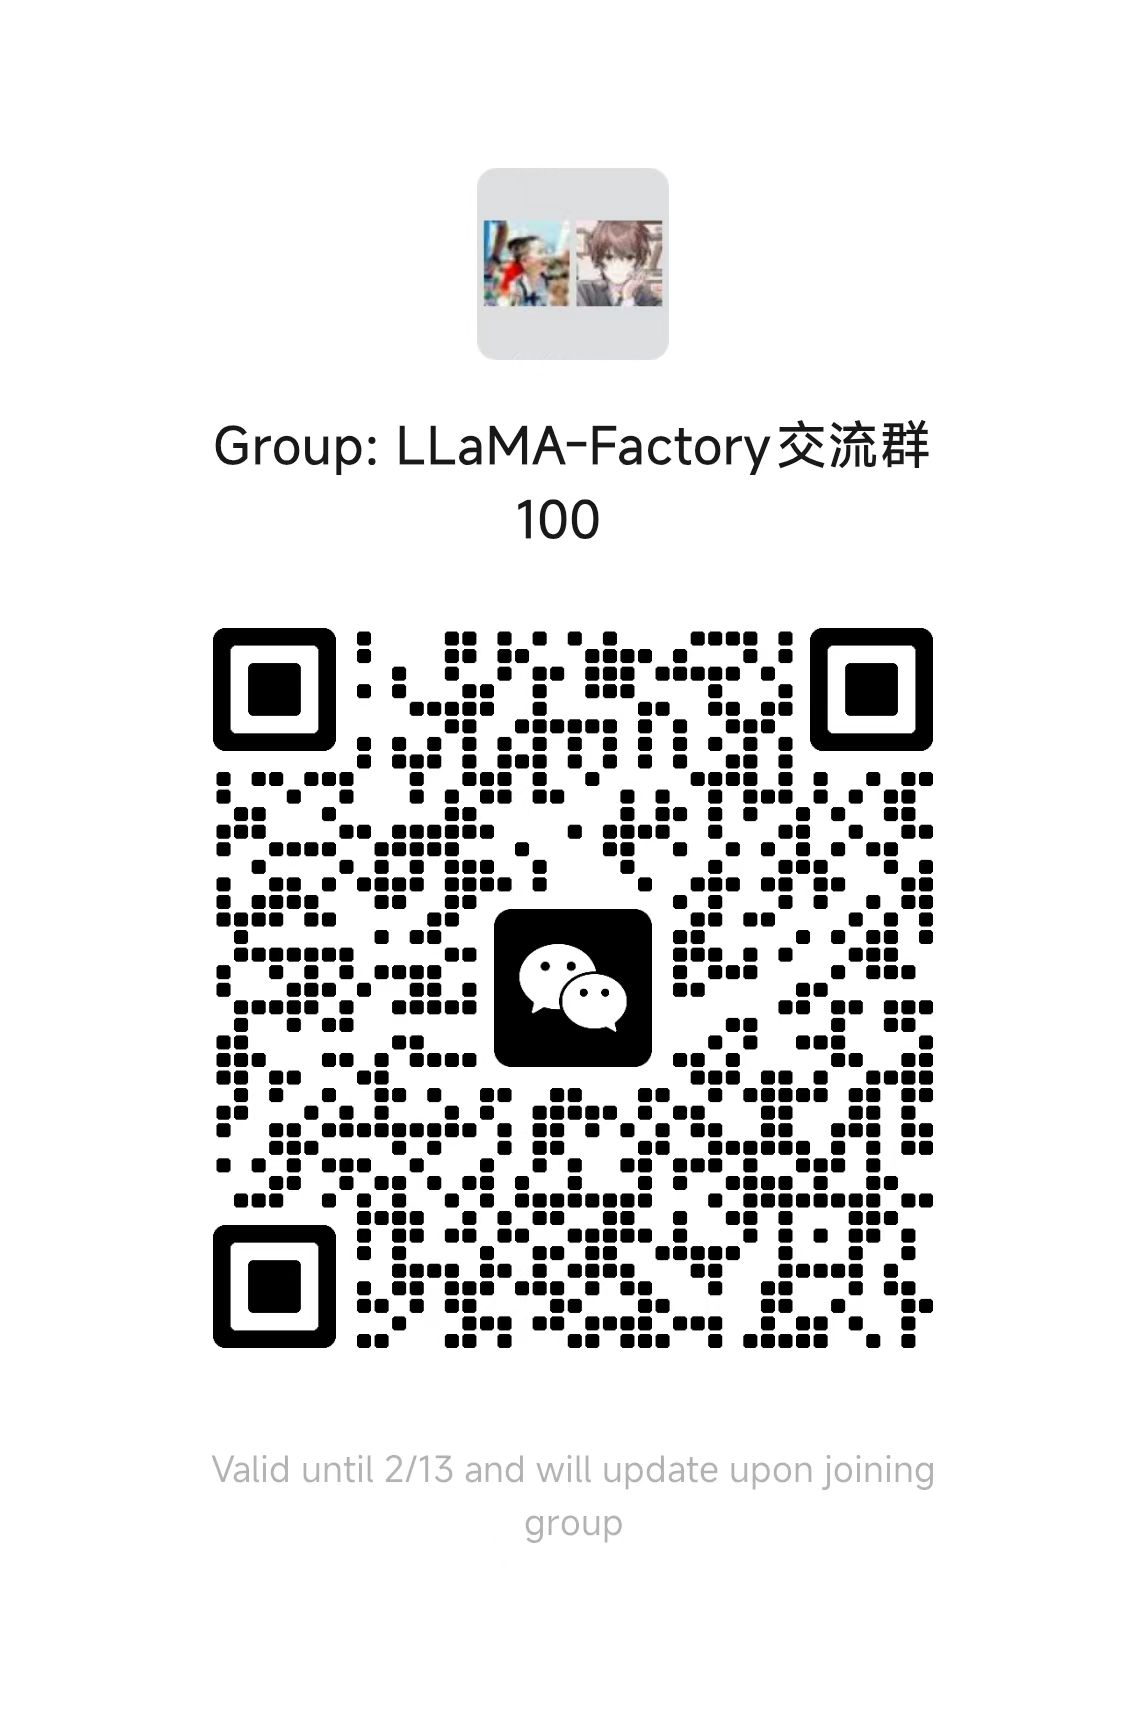
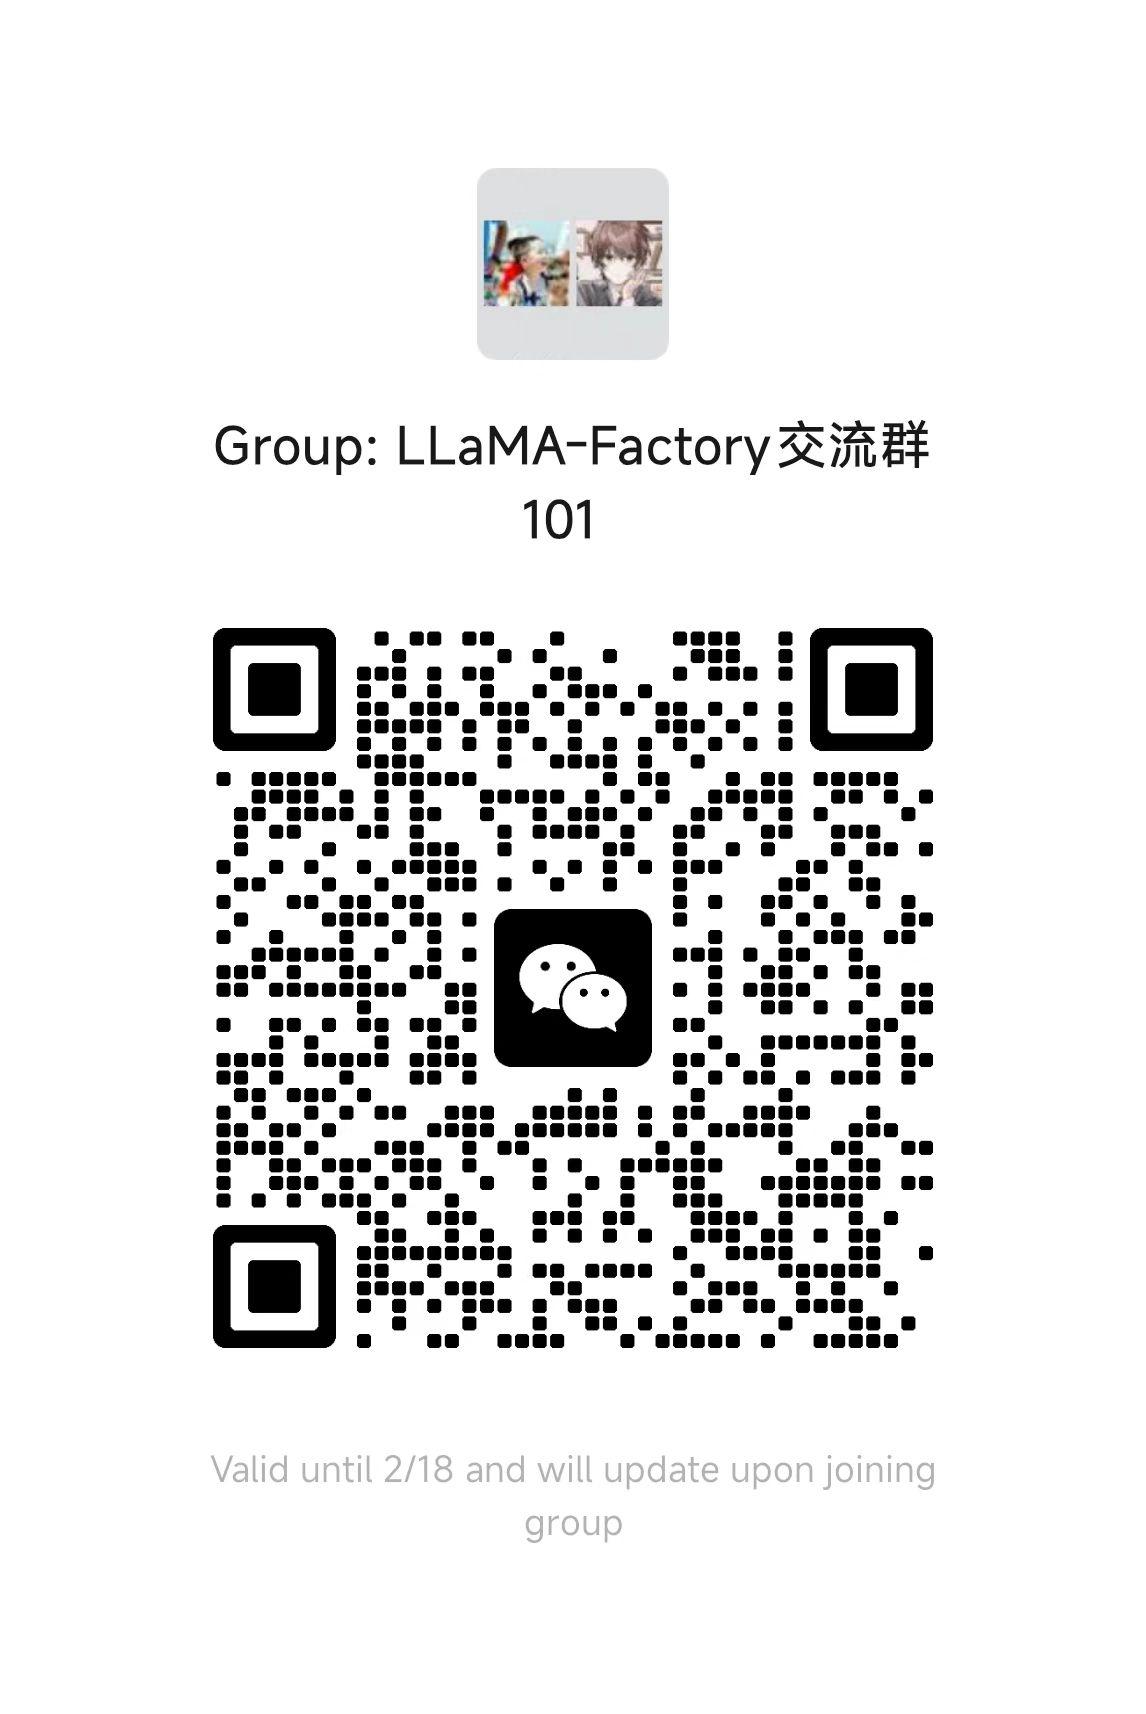
[assets] update wechat (#6892)

diff --git a/README_zh.md b/README_zh.md
@@ -216,7 +216,7 @@ https://github.com/user-attachments/assets/e6ce34b0-52d5-4f3e-a830-592106c4c272
 
 ## 模型
 
-| 模型名                                                            | 模型大小                          | Template            |
+| 模型名                                                             | 参数量                            | Template            |
 | ----------------------------------------------------------------- | -------------------------------- | ------------------- |
 | [Baichuan 2](https://huggingface.co/baichuan-inc)                 | 7B/13B                           | baichuan2           |
 | [BLOOM/BLOOMZ](https://huggingface.co/bigscience)                 | 560M/1.1B/1.7B/3B/7.1B/176B      | -                   |
